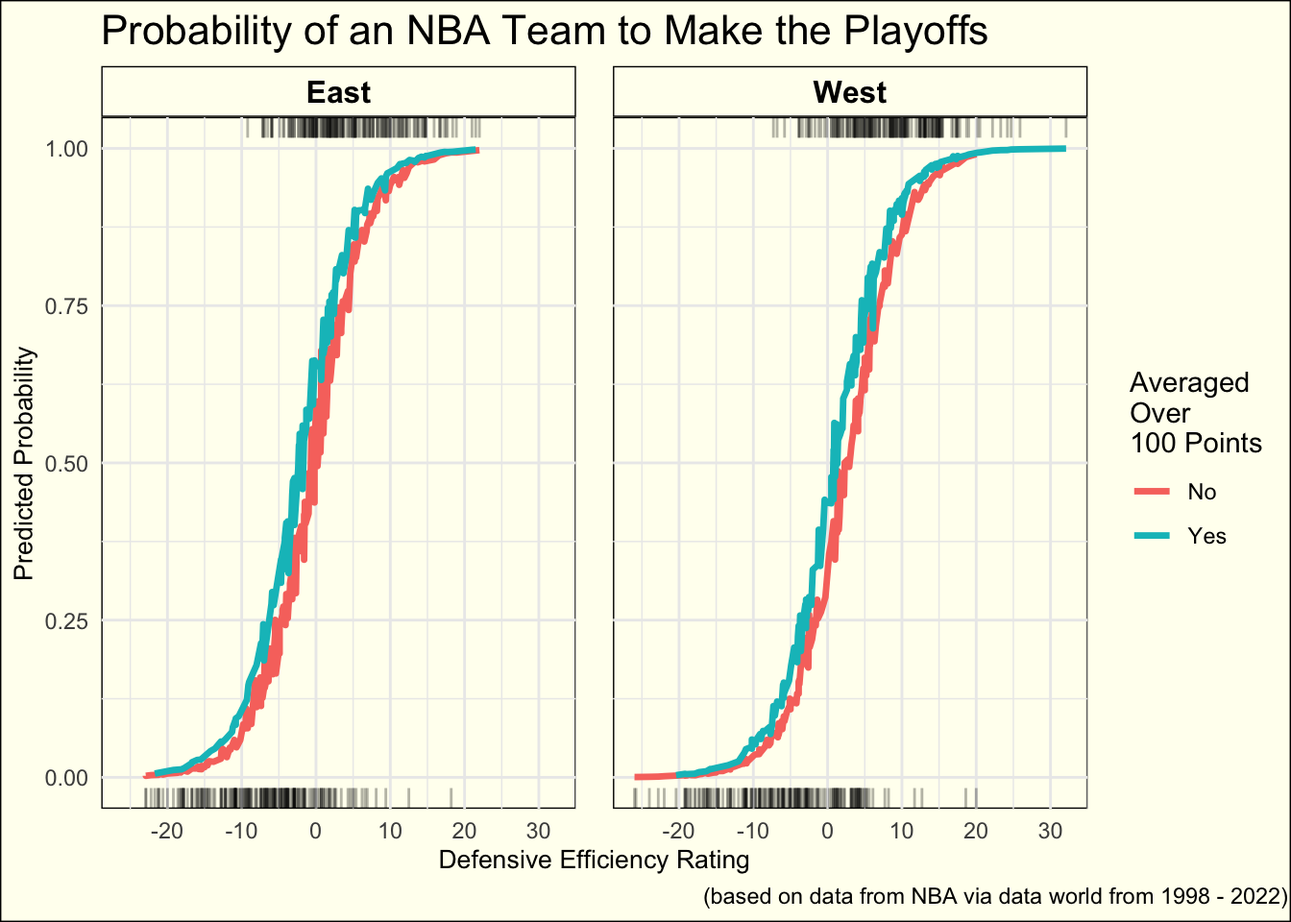
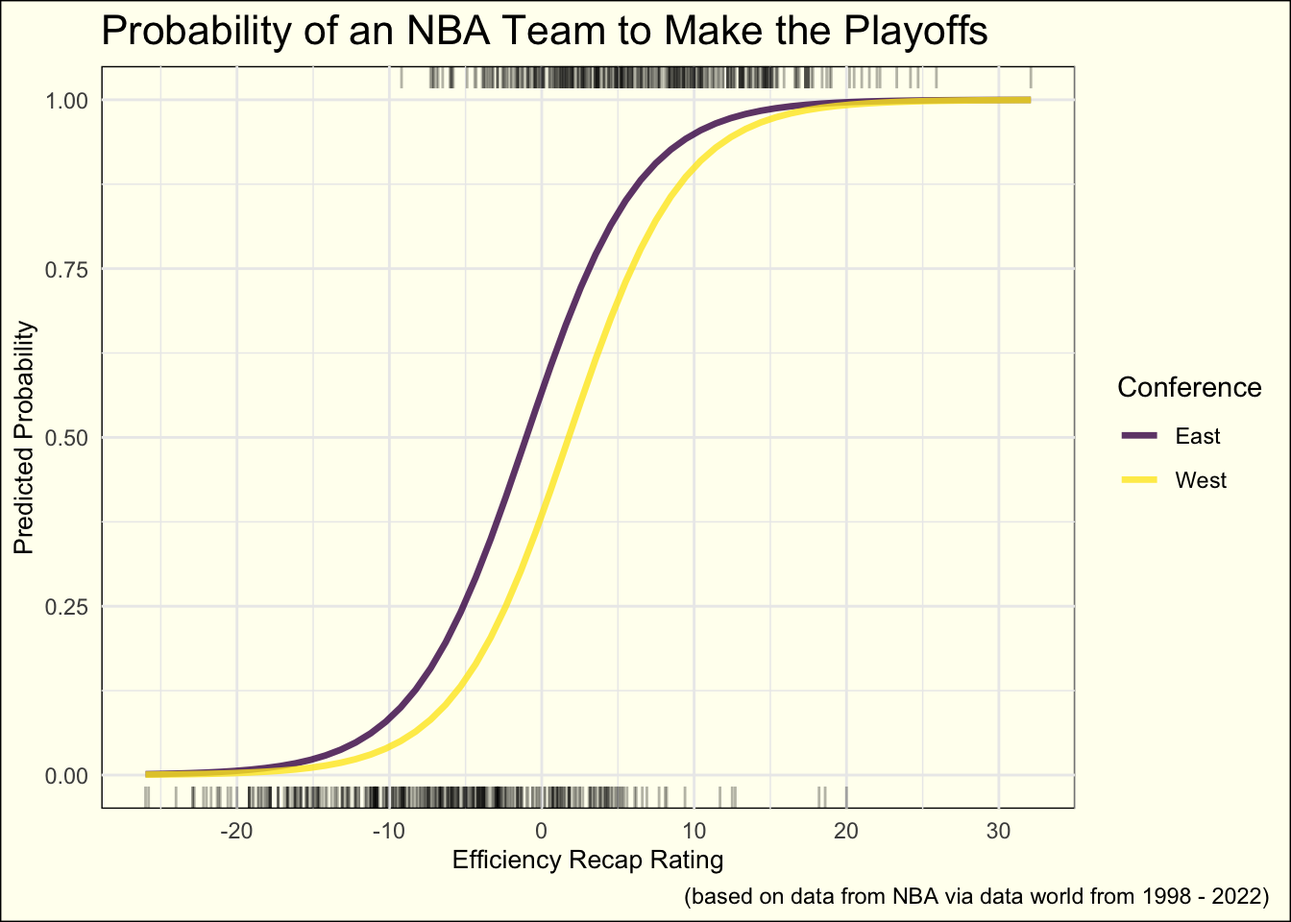
edits to visual and some writing

diff --git a/docs/posts/blog-post-3/blog-post-3.html b/docs/posts/blog-post-3/blog-post-3.html
@@ -841,16 +841,16 @@ pre > code.sourceCode > span > a:first-child::before { text-decoration: underlin
 </section>
 <section id="building-a-model" class="level1">
 <h1>Building a model</h1>
-<p>I decided to use some of the metrics in the data set to predict whether a team would make the playoffs or not. I made a response variables Playoffs by using a condition of if a team played more than 82 games or not in season. I also made another qualitative variable in over100 which shows whether a team averaged over 100 points or not for that season. This makes the visualization aspect more fun to do.</p>
+<p>I decided to use some of the metrics in the data set to predict whether a team would make the playoffs or not. I made a response variables Playoffs by using a condition of if a team played more than 82 games or not in season.</p>
 <p>In order to make sure that this model isn’t testing using data that knows the answer, we should get rid of both of the No and G variables. We also don’t care about what team it is so we should get rid of the team factor.</p>
 <div class="cell">
 <div class="sourceCode cell-code" id="cb9"><pre class="sourceCode r code-with-copy"><code class="sourceCode r"><span id="cb9-1"><a href="#cb9-1" aria-hidden="true" tabindex="-1"></a>team_stats_tidy <span class="ot">&lt;-</span></span>
 <span id="cb9-2"><a href="#cb9-2" aria-hidden="true" tabindex="-1"></a>  team_stats_tidy <span class="sc">|&gt;</span></span>
 <span id="cb9-3"><a href="#cb9-3" aria-hidden="true" tabindex="-1"></a>  <span class="fu">select</span>(<span class="sc">-</span>(<span class="fu">c</span>(<span class="st">"No"</span>,<span class="st">"G"</span>, <span class="st">"Team"</span>)))</span></code><button title="Copy to Clipboard" class="code-copy-button"><i class="bi"></i></button></pre></div>
 </div>
-<p>As this is a blog for data visualization, I am only going to choose four predictors that were all found to be relatively significant in a model using all the predictors. Two of these are qualitative to demonstrate more visualization. The predictors are Deff, Conference, FG_pct, and over100. Shown below is my model with their coefficients and p values.</p>
+<p>As this is a blog for data visualization, I am only going to choose three predictors that were all found to be relatively significant in a model using all the predictors. One of these is qualitative to demonstrate more visualization. The predictors are Deff, Conference, and FG_pct. Shown below is my model with their coefficients and p values.</p>
 <div class="cell">
-<div class="sourceCode cell-code" id="cb10"><pre class="sourceCode r code-with-copy"><code class="sourceCode r"><span id="cb10-1"><a href="#cb10-1" aria-hidden="true" tabindex="-1"></a>playoffs_mod <span class="ot">&lt;-</span> <span class="fu">glm</span>(Playoffs <span class="sc">~</span> Deff <span class="sc">+</span> Conference <span class="sc">+</span> FG_pct <span class="sc">+</span> over100,</span>
+<div class="sourceCode cell-code" id="cb10"><pre class="sourceCode r code-with-copy"><code class="sourceCode r"><span id="cb10-1"><a href="#cb10-1" aria-hidden="true" tabindex="-1"></a>playoffs_mod <span class="ot">&lt;-</span> <span class="fu">glm</span>(Playoffs <span class="sc">~</span> Deff <span class="sc">+</span> Conference <span class="sc">+</span> FG_pct,</span>
 <span id="cb10-2"><a href="#cb10-2" aria-hidden="true" tabindex="-1"></a>                    <span class="at">data =</span> team_stats_tidy,</span>
 <span id="cb10-3"><a href="#cb10-3" aria-hidden="true" tabindex="-1"></a>                    <span class="at">family =</span> <span class="st">'binomial'</span>)</span>
 <span id="cb10-4"><a href="#cb10-4" aria-hidden="true" tabindex="-1"></a><span class="fu">kable</span>(<span class="fu">tidy</span>(playoffs_mod))</span></code><button title="Copy to Clipboard" class="code-copy-button"><i class="bi"></i></button></pre></div>
@@ -868,38 +868,31 @@ pre > code.sourceCode > span > a:first-child::before { text-decoration: underlin
 <tbody>
 <tr class="odd">
 <td style="text-align: left;">(Intercept)</td>
-<td style="text-align: right;">5.1090840</td>
-<td style="text-align: right;">4.2254638</td>
-<td style="text-align: right;">1.209118</td>
-<td style="text-align: right;">0.2266175</td>
+<td style="text-align: right;">0.4539997</td>
+<td style="text-align: right;">3.7403799</td>
+<td style="text-align: right;">0.1213780</td>
+<td style="text-align: right;">0.9033917</td>
 </tr>
 <tr class="even">
 <td style="text-align: left;">Deff</td>
-<td style="text-align: right;">0.2737298</td>
-<td style="text-align: right;">0.0214107</td>
-<td style="text-align: right;">12.784727</td>
+<td style="text-align: right;">0.2665841</td>
+<td style="text-align: right;">0.0209194</td>
+<td style="text-align: right;">12.7433723</td>
 <td style="text-align: right;">0.0000000</td>
 </tr>
 <tr class="odd">
 <td style="text-align: left;">ConferenceWest</td>
-<td style="text-align: right;">-0.7893214</td>
-<td style="text-align: right;">0.2255191</td>
-<td style="text-align: right;">-3.500020</td>
-<td style="text-align: right;">0.0004652</td>
+<td style="text-align: right;">-0.7424358</td>
+<td style="text-align: right;">0.2228549</td>
+<td style="text-align: right;">-3.3314764</td>
+<td style="text-align: right;">0.0008639</td>
 </tr>
 <tr class="even">
 <td style="text-align: left;">FG_pct</td>
-<td style="text-align: right;">-0.1124503</td>
-<td style="text-align: right;">0.0948899</td>
-<td style="text-align: right;">-1.185061</td>
-<td style="text-align: right;">0.2359933</td>
-</tr>
-<tr class="odd">
-<td style="text-align: left;">over100Yes</td>
-<td style="text-align: right;">0.5922806</td>
-<td style="text-align: right;">0.2436075</td>
-<td style="text-align: right;">2.431291</td>
-<td style="text-align: right;">0.0150451</td>
+<td style="text-align: right;">-0.0040242</td>
+<td style="text-align: right;">0.0831379</td>
+<td style="text-align: right;">-0.0484033</td>
+<td style="text-align: right;">0.9613948</td>
 </tr>
 </tbody>
 </table>
@@ -909,33 +902,32 @@ pre > code.sourceCode > span > a:first-child::before { text-decoration: underlin
 <div class="sourceCode cell-code" id="cb11"><pre class="sourceCode r code-with-copy"><code class="sourceCode r"><span id="cb11-1"><a href="#cb11-1" aria-hidden="true" tabindex="-1"></a>grid <span class="ot">&lt;-</span></span>
 <span id="cb11-2"><a href="#cb11-2" aria-hidden="true" tabindex="-1"></a>  team_stats_tidy <span class="sc">|&gt;</span></span>
 <span id="cb11-3"><a href="#cb11-3" aria-hidden="true" tabindex="-1"></a>  <span class="fu">data_grid</span>(</span>
-<span id="cb11-4"><a href="#cb11-4" aria-hidden="true" tabindex="-1"></a>    <span class="at">Deff =</span> <span class="fu">seq_range</span>(Deff, <span class="at">n =</span> <span class="dv">100</span>),</span>
-<span id="cb11-5"><a href="#cb11-5" aria-hidden="true" tabindex="-1"></a>    <span class="at">FG_pct =</span> <span class="fu">seq_range</span>(FG_pct, <span class="at">n =</span> <span class="dv">100</span>),</span>
+<span id="cb11-4"><a href="#cb11-4" aria-hidden="true" tabindex="-1"></a>    <span class="at">Deff =</span> <span class="fu">seq_range</span>(Deff, <span class="at">n =</span> <span class="dv">60</span>),</span>
+<span id="cb11-5"><a href="#cb11-5" aria-hidden="true" tabindex="-1"></a>    <span class="at">FG_pct =</span> <span class="fu">median</span>(FG_pct),</span>
 <span id="cb11-6"><a href="#cb11-6" aria-hidden="true" tabindex="-1"></a>    <span class="at">Conference =</span> <span class="fu">c</span>(<span class="st">"West"</span>, <span class="st">"East"</span>),</span>
-<span id="cb11-7"><a href="#cb11-7" aria-hidden="true" tabindex="-1"></a>    <span class="at">over100 =</span> <span class="fu">c</span>(<span class="st">"Yes"</span>, <span class="st">"No"</span>)</span>
-<span id="cb11-8"><a href="#cb11-8" aria-hidden="true" tabindex="-1"></a>  )</span></code><button title="Copy to Clipboard" class="code-copy-button"><i class="bi"></i></button></pre></div>
+<span id="cb11-7"><a href="#cb11-7" aria-hidden="true" tabindex="-1"></a>  )</span></code><button title="Copy to Clipboard" class="code-copy-button"><i class="bi"></i></button></pre></div>
 </div>
 <div class="cell">
 <div class="sourceCode cell-code" id="cb12"><pre class="sourceCode r code-with-copy"><code class="sourceCode r"><span id="cb12-1"><a href="#cb12-1" aria-hidden="true" tabindex="-1"></a>aug_stats <span class="ot">&lt;-</span></span>
 <span id="cb12-2"><a href="#cb12-2" aria-hidden="true" tabindex="-1"></a>  <span class="fu">augment</span>(playoffs_mod,</span>
-<span id="cb12-3"><a href="#cb12-3" aria-hidden="true" tabindex="-1"></a>          <span class="at">se_fit =</span> <span class="cn">TRUE</span>)</span>
-<span id="cb12-4"><a href="#cb12-4" aria-hidden="true" tabindex="-1"></a>aug_stats</span></code><button title="Copy to Clipboard" class="code-copy-button"><i class="bi"></i></button></pre></div>
+<span id="cb12-3"><a href="#cb12-3" aria-hidden="true" tabindex="-1"></a>          <span class="at">newdata =</span> grid,</span>
+<span id="cb12-4"><a href="#cb12-4" aria-hidden="true" tabindex="-1"></a>          <span class="at">se_fit =</span> <span class="cn">TRUE</span>)</span>
+<span id="cb12-5"><a href="#cb12-5" aria-hidden="true" tabindex="-1"></a>aug_stats</span></code><button title="Copy to Clipboard" class="code-copy-button"><i class="bi"></i></button></pre></div>
 <div class="cell-output cell-output-stdout">
-<pre><code># A tibble: 725 × 12
-   Playoffs  Deff Conference FG_pct over100 .fitted .se.fit .resid    .hat
-      &lt;dbl&gt; &lt;dbl&gt; &lt;chr&gt;       &lt;dbl&gt; &lt;fct&gt;     &lt;dbl&gt;   &lt;dbl&gt;  &lt;dbl&gt;   &lt;dbl&gt;
- 1        1  17.5 East         44.9 No         4.85   0.416  0.125 0.00133
- 2        1  17.5 West         48.3 No         3.68   0.410  0.223 0.00405
- 3        1  13.6 West         46.6 No         2.80   0.304  0.343 0.00497
- 4        1  13.2 West         48   Yes        3.13   0.301  0.293 0.00365
- 5        1  13.1 West         46.8 No         2.64   0.302  0.371 0.00567
- 6        1  12.2 East         46.8 No         3.19   0.335  0.285 0.00428
- 7        1  10   East         44.9 No         2.80   0.277  0.344 0.00416
- 8        1   9.4 West         47.1 Yes        2.19   0.236  0.461 0.00505
- 9        1   7.3 East         45.4 No         2.00   0.235  0.503 0.00580
-10        1   7.2 East         44.6 No         2.06   0.236  0.489 0.00558
-# ℹ 715 more rows
-# ℹ 3 more variables: .sigma &lt;dbl&gt;, .cooksd &lt;dbl&gt;, .std.resid &lt;dbl&gt;</code></pre>
+<pre><code># A tibble: 120 × 5
+    Deff FG_pct Conference .fitted .se.fit
+   &lt;dbl&gt;  &lt;dbl&gt; &lt;chr&gt;        &lt;dbl&gt;   &lt;dbl&gt;
+ 1 -26     45.2 East         -6.66   0.548
+ 2 -26     45.2 West         -7.40   0.599
+ 3 -25.0   45.2 East         -6.40   0.529
+ 4 -25.0   45.2 West         -7.14   0.579
+ 5 -24.0   45.2 East         -6.13   0.509
+ 6 -24.0   45.2 West         -6.88   0.559
+ 7 -23.0   45.2 East         -5.87   0.489
+ 8 -23.0   45.2 West         -6.61   0.539
+ 9 -22.1   45.2 East         -5.61   0.470
+10 -22.1   45.2 West         -6.35   0.520
+# ℹ 110 more rows</code></pre>
 </div>
 </div>
 <p>Next I need to convert the .fitted values to predicted probabilities. Currently they are showing the predicted log odds.</p>
@@ -945,22 +937,20 @@ pre > code.sourceCode > span > a:first-child::before { text-decoration: underlin
 <span id="cb14-3"><a href="#cb14-3" aria-hidden="true" tabindex="-1"></a>  <span class="fu">mutate</span>(<span class="at">.predprob =</span> (<span class="fu">exp</span>(.fitted) <span class="sc">/</span> (<span class="dv">1</span> <span class="sc">+</span> <span class="fu">exp</span>(.fitted))))</span>
 <span id="cb14-4"><a href="#cb14-4" aria-hidden="true" tabindex="-1"></a>aug_stats</span></code><button title="Copy to Clipboard" class="code-copy-button"><i class="bi"></i></button></pre></div>
 <div class="cell-output cell-output-stdout">
-<pre><code># A tibble: 725 × 13
-   Playoffs  Deff Conference FG_pct over100 .fitted .se.fit .resid    .hat
-      &lt;dbl&gt; &lt;dbl&gt; &lt;chr&gt;       &lt;dbl&gt; &lt;fct&gt;     &lt;dbl&gt;   &lt;dbl&gt;  &lt;dbl&gt;   &lt;dbl&gt;
- 1        1  17.5 East         44.9 No         4.85   0.416  0.125 0.00133
- 2        1  17.5 West         48.3 No         3.68   0.410  0.223 0.00405
- 3        1  13.6 West         46.6 No         2.80   0.304  0.343 0.00497
- 4        1  13.2 West         48   Yes        3.13   0.301  0.293 0.00365
- 5        1  13.1 West         46.8 No         2.64   0.302  0.371 0.00567
- 6        1  12.2 East         46.8 No         3.19   0.335  0.285 0.00428
- 7        1  10   East         44.9 No         2.80   0.277  0.344 0.00416
- 8        1   9.4 West         47.1 Yes        2.19   0.236  0.461 0.00505
- 9        1   7.3 East         45.4 No         2.00   0.235  0.503 0.00580
-10        1   7.2 East         44.6 No         2.06   0.236  0.489 0.00558
-# ℹ 715 more rows
-# ℹ 4 more variables: .sigma &lt;dbl&gt;, .cooksd &lt;dbl&gt;, .std.resid &lt;dbl&gt;,
-#   .predprob &lt;dbl&gt;</code></pre>
+<pre><code># A tibble: 120 × 6
+    Deff FG_pct Conference .fitted .se.fit .predprob
+   &lt;dbl&gt;  &lt;dbl&gt; &lt;chr&gt;        &lt;dbl&gt;   &lt;dbl&gt;     &lt;dbl&gt;
+ 1 -26     45.2 East         -6.66   0.548  0.00128 
+ 2 -26     45.2 West         -7.40   0.599  0.000610
+ 3 -25.0   45.2 East         -6.40   0.529  0.00166 
+ 4 -25.0   45.2 West         -7.14   0.579  0.000793
+ 5 -24.0   45.2 East         -6.13   0.509  0.00216 
+ 6 -24.0   45.2 West         -6.88   0.559  0.00103 
+ 7 -23.0   45.2 East         -5.87   0.489  0.00281 
+ 8 -23.0   45.2 West         -6.61   0.539  0.00134 
+ 9 -22.1   45.2 East         -5.61   0.470  0.00365 
+10 -22.1   45.2 West         -6.35   0.520  0.00174 
+# ℹ 110 more rows</code></pre>
 </div>
 </div>
 <p>For my visualization I plan on using the geom_rug feature, so I need to make two separate data frames with teams that made the playoffs and teams that didn’t.</p>
@@ -981,37 +971,38 @@ pre > code.sourceCode > span > a:first-child::before { text-decoration: underlin
 <span id="cb17-2"><a href="#cb17-2" aria-hidden="true" tabindex="-1"></a>aug_stats<span class="sc">|&gt;</span></span>
 <span id="cb17-3"><a href="#cb17-3" aria-hidden="true" tabindex="-1"></a>  <span class="fu">ggplot</span>(<span class="fu">aes</span>(<span class="at">x =</span> Deff,</span>
 <span id="cb17-4"><a href="#cb17-4" aria-hidden="true" tabindex="-1"></a>             <span class="at">y =</span> .predprob)) <span class="sc">+</span></span>
-<span id="cb17-5"><a href="#cb17-5" aria-hidden="true" tabindex="-1"></a>  <span class="fu">geom_line</span>(<span class="fu">aes</span>(<span class="at">colour =</span> over100),</span>
-<span id="cb17-6"><a href="#cb17-6" aria-hidden="true" tabindex="-1"></a>            <span class="at">linewidth =</span> <span class="fl">1.2</span>) <span class="sc">+</span></span>
-<span id="cb17-7"><a href="#cb17-7" aria-hidden="true" tabindex="-1"></a>  <span class="fu">geom_rug</span>(<span class="at">data =</span> stats_playoffs,</span>
-<span id="cb17-8"><a href="#cb17-8" aria-hidden="true" tabindex="-1"></a>           <span class="at">sides =</span> <span class="st">'t'</span>,</span>
-<span id="cb17-9"><a href="#cb17-9" aria-hidden="true" tabindex="-1"></a>           <span class="at">alpha =</span> <span class="fl">0.3</span>,</span>
-<span id="cb17-10"><a href="#cb17-10" aria-hidden="true" tabindex="-1"></a>           <span class="fu">aes</span>(<span class="at">y =</span> Playoffs)) <span class="sc">+</span></span>
-<span id="cb17-11"><a href="#cb17-11" aria-hidden="true" tabindex="-1"></a>  <span class="fu">geom_rug</span>(<span class="at">data =</span> stats_nplayoffs,</span>
-<span id="cb17-12"><a href="#cb17-12" aria-hidden="true" tabindex="-1"></a>           <span class="at">sides =</span> <span class="st">'b'</span>,</span>
-<span id="cb17-13"><a href="#cb17-13" aria-hidden="true" tabindex="-1"></a>           <span class="at">alpha =</span> <span class="fl">0.3</span>,</span>
-<span id="cb17-14"><a href="#cb17-14" aria-hidden="true" tabindex="-1"></a>           <span class="fu">aes</span>(<span class="at">y =</span> Playoffs)) <span class="sc">+</span></span>
-<span id="cb17-15"><a href="#cb17-15" aria-hidden="true" tabindex="-1"></a>  <span class="fu">labs</span>(<span class="at">x =</span> <span class="st">"Defensive Efficiency Rating"</span>,</span>
-<span id="cb17-16"><a href="#cb17-16" aria-hidden="true" tabindex="-1"></a>       <span class="at">y =</span> <span class="st">"Predicted Probability"</span>,</span>
-<span id="cb17-17"><a href="#cb17-17" aria-hidden="true" tabindex="-1"></a>       <span class="at">colour =</span> <span class="st">"Averaged</span><span class="sc">\n</span><span class="st">Over</span><span class="sc">\n</span><span class="st">100 Points"</span>,</span>
-<span id="cb17-18"><a href="#cb17-18" aria-hidden="true" tabindex="-1"></a>       <span class="at">title =</span> <span class="st">"Probability of an NBA Team to Make the Playoffs"</span>,</span>
-<span id="cb17-19"><a href="#cb17-19" aria-hidden="true" tabindex="-1"></a>       <span class="at">caption =</span> <span class="st">"(based on data from NBA via data world from 1998 - 2022)"</span>) <span class="sc">+</span></span>
-<span id="cb17-20"><a href="#cb17-20" aria-hidden="true" tabindex="-1"></a>  <span class="fu">theme_minimal</span>() <span class="sc">+</span></span>
-<span id="cb17-21"><a href="#cb17-21" aria-hidden="true" tabindex="-1"></a>  <span class="fu">facet_wrap</span>(<span class="sc">~</span>Conference) <span class="sc">+</span></span>
-<span id="cb17-22"><a href="#cb17-22" aria-hidden="true" tabindex="-1"></a>    <span class="fu">theme</span>(<span class="at">axis.title =</span> <span class="fu">element_text</span>(<span class="at">size =</span> <span class="dv">10</span>,),</span>
-<span id="cb17-23"><a href="#cb17-23" aria-hidden="true" tabindex="-1"></a>        <span class="at">strip.text =</span> <span class="fu">element_text</span>(<span class="at">size =</span> <span class="dv">12</span>),</span>
-<span id="cb17-24"><a href="#cb17-24" aria-hidden="true" tabindex="-1"></a>        <span class="at">plot.title =</span> <span class="fu">element_text</span>(<span class="at">size =</span> <span class="dv">16</span>,</span>
-<span id="cb17-25"><a href="#cb17-25" aria-hidden="true" tabindex="-1"></a>                                  <span class="at">hjust =</span> <span class="dv">0</span>),</span>
-<span id="cb17-26"><a href="#cb17-26" aria-hidden="true" tabindex="-1"></a>        <span class="at">plot.subtitle =</span> <span class="fu">element_text</span>(<span class="at">size =</span> <span class="dv">6</span>),</span>
-<span id="cb17-27"><a href="#cb17-27" aria-hidden="true" tabindex="-1"></a>        <span class="at">panel.spacing =</span> <span class="fu">unit</span>(<span class="dv">1</span>, <span class="st">'lines'</span>),</span>
-<span id="cb17-28"><a href="#cb17-28" aria-hidden="true" tabindex="-1"></a>        <span class="at">strip.text.x =</span> <span class="fu">element_text</span>(<span class="at">color =</span> <span class="st">"black"</span>, </span>
-<span id="cb17-29"><a href="#cb17-29" aria-hidden="true" tabindex="-1"></a>                                    <span class="at">face =</span> <span class="st">"bold"</span>),</span>
-<span id="cb17-30"><a href="#cb17-30" aria-hidden="true" tabindex="-1"></a>        <span class="at">strip.background =</span> <span class="fu">element_rect</span>(<span class="at">colour =</span> <span class="st">"black"</span>,</span>
-<span id="cb17-31"><a href="#cb17-31" aria-hidden="true" tabindex="-1"></a>                                        <span class="at">fill =</span> <span class="st">"ivory"</span>),</span>
-<span id="cb17-32"><a href="#cb17-32" aria-hidden="true" tabindex="-1"></a>        <span class="at">panel.background =</span> <span class="fu">element_rect</span>(<span class="at">fill =</span> <span class="st">"ivory"</span>),</span>
-<span id="cb17-33"><a href="#cb17-33" aria-hidden="true" tabindex="-1"></a>        <span class="at">plot.background =</span> <span class="fu">element_rect</span>(<span class="at">fill =</span> <span class="st">"ivory"</span>),</span>
-<span id="cb17-34"><a href="#cb17-34" aria-hidden="true" tabindex="-1"></a>        <span class="at">plot.caption =</span> <span class="fu">element_text</span>(<span class="at">hjust =</span> <span class="fl">1.5</span>)) <span class="sc">+</span></span>
-<span id="cb17-35"><a href="#cb17-35" aria-hidden="true" tabindex="-1"></a>  <span class="fu">scale_x_continuous</span>(<span class="at">breaks=</span><span class="fu">seq</span>(<span class="sc">-</span><span class="dv">30</span>, <span class="dv">40</span>, <span class="dv">10</span>))</span></code><button title="Copy to Clipboard" class="code-copy-button"><i class="bi"></i></button></pre></div>
+<span id="cb17-5"><a href="#cb17-5" aria-hidden="true" tabindex="-1"></a>  <span class="fu">geom_line</span>(<span class="fu">aes</span>(<span class="at">colour =</span> Conference),</span>
+<span id="cb17-6"><a href="#cb17-6" aria-hidden="true" tabindex="-1"></a>            <span class="at">linewidth =</span> <span class="fl">1.2</span>,</span>
+<span id="cb17-7"><a href="#cb17-7" aria-hidden="true" tabindex="-1"></a>            <span class="at">alpha =</span> <span class="fl">0.8</span>) <span class="sc">+</span></span>
+<span id="cb17-8"><a href="#cb17-8" aria-hidden="true" tabindex="-1"></a>  <span class="fu">scale_colour_viridis_d</span>() <span class="sc">+</span></span>
+<span id="cb17-9"><a href="#cb17-9" aria-hidden="true" tabindex="-1"></a>  <span class="fu">geom_rug</span>(<span class="at">data =</span> stats_playoffs,</span>
+<span id="cb17-10"><a href="#cb17-10" aria-hidden="true" tabindex="-1"></a>           <span class="at">sides =</span> <span class="st">'t'</span>,</span>
+<span id="cb17-11"><a href="#cb17-11" aria-hidden="true" tabindex="-1"></a>           <span class="at">alpha =</span> <span class="fl">0.3</span>,</span>
+<span id="cb17-12"><a href="#cb17-12" aria-hidden="true" tabindex="-1"></a>           <span class="fu">aes</span>(<span class="at">y =</span> Playoffs)) <span class="sc">+</span></span>
+<span id="cb17-13"><a href="#cb17-13" aria-hidden="true" tabindex="-1"></a>  <span class="fu">geom_rug</span>(<span class="at">data =</span> stats_nplayoffs,</span>
+<span id="cb17-14"><a href="#cb17-14" aria-hidden="true" tabindex="-1"></a>           <span class="at">sides =</span> <span class="st">'b'</span>,</span>
+<span id="cb17-15"><a href="#cb17-15" aria-hidden="true" tabindex="-1"></a>           <span class="at">alpha =</span> <span class="fl">0.3</span>,</span>
+<span id="cb17-16"><a href="#cb17-16" aria-hidden="true" tabindex="-1"></a>           <span class="fu">aes</span>(<span class="at">y =</span> Playoffs)) <span class="sc">+</span></span>
+<span id="cb17-17"><a href="#cb17-17" aria-hidden="true" tabindex="-1"></a>  <span class="fu">labs</span>(<span class="at">x =</span> <span class="st">"Efficiency Recap Rating"</span>,</span>
+<span id="cb17-18"><a href="#cb17-18" aria-hidden="true" tabindex="-1"></a>       <span class="at">y =</span> <span class="st">"Predicted Probability"</span>,</span>
+<span id="cb17-19"><a href="#cb17-19" aria-hidden="true" tabindex="-1"></a>       <span class="at">colour =</span> <span class="st">"Conference"</span>,</span>
+<span id="cb17-20"><a href="#cb17-20" aria-hidden="true" tabindex="-1"></a>       <span class="at">title =</span> <span class="st">"Probability of an NBA Team to Make the Playoffs"</span>,</span>
+<span id="cb17-21"><a href="#cb17-21" aria-hidden="true" tabindex="-1"></a>       <span class="at">caption =</span> <span class="st">"(based on data from NBA via data world from 1998 - 2022)"</span>) <span class="sc">+</span></span>
+<span id="cb17-22"><a href="#cb17-22" aria-hidden="true" tabindex="-1"></a>  <span class="fu">theme_minimal</span>() <span class="sc">+</span></span>
+<span id="cb17-23"><a href="#cb17-23" aria-hidden="true" tabindex="-1"></a>    <span class="fu">theme</span>(<span class="at">axis.title =</span> <span class="fu">element_text</span>(<span class="at">size =</span> <span class="dv">10</span>,),</span>
+<span id="cb17-24"><a href="#cb17-24" aria-hidden="true" tabindex="-1"></a>        <span class="at">strip.text =</span> <span class="fu">element_text</span>(<span class="at">size =</span> <span class="dv">12</span>),</span>
+<span id="cb17-25"><a href="#cb17-25" aria-hidden="true" tabindex="-1"></a>        <span class="at">plot.title =</span> <span class="fu">element_text</span>(<span class="at">size =</span> <span class="dv">16</span>,</span>
+<span id="cb17-26"><a href="#cb17-26" aria-hidden="true" tabindex="-1"></a>                                  <span class="at">hjust =</span> <span class="dv">0</span>),</span>
+<span id="cb17-27"><a href="#cb17-27" aria-hidden="true" tabindex="-1"></a>        <span class="at">plot.subtitle =</span> <span class="fu">element_text</span>(<span class="at">size =</span> <span class="dv">6</span>),</span>
+<span id="cb17-28"><a href="#cb17-28" aria-hidden="true" tabindex="-1"></a>        <span class="at">panel.spacing =</span> <span class="fu">unit</span>(<span class="dv">1</span>, <span class="st">'lines'</span>),</span>
+<span id="cb17-29"><a href="#cb17-29" aria-hidden="true" tabindex="-1"></a>        <span class="at">strip.text.x =</span> <span class="fu">element_text</span>(<span class="at">color =</span> <span class="st">"black"</span>, </span>
+<span id="cb17-30"><a href="#cb17-30" aria-hidden="true" tabindex="-1"></a>                                    <span class="at">face =</span> <span class="st">"bold"</span>),</span>
+<span id="cb17-31"><a href="#cb17-31" aria-hidden="true" tabindex="-1"></a>        <span class="at">strip.background =</span> <span class="fu">element_rect</span>(<span class="at">colour =</span> <span class="st">"black"</span>,</span>
+<span id="cb17-32"><a href="#cb17-32" aria-hidden="true" tabindex="-1"></a>                                        <span class="at">fill =</span> <span class="st">"ivory"</span>),</span>
+<span id="cb17-33"><a href="#cb17-33" aria-hidden="true" tabindex="-1"></a>        <span class="at">panel.background =</span> <span class="fu">element_rect</span>(<span class="at">fill =</span> <span class="st">"ivory"</span>),</span>
+<span id="cb17-34"><a href="#cb17-34" aria-hidden="true" tabindex="-1"></a>        <span class="at">plot.background =</span> <span class="fu">element_rect</span>(<span class="at">fill =</span> <span class="st">"ivory"</span>),</span>
+<span id="cb17-35"><a href="#cb17-35" aria-hidden="true" tabindex="-1"></a>        <span class="at">plot.caption =</span> <span class="fu">element_text</span>(<span class="at">hjust =</span> <span class="fl">1.5</span>)) <span class="sc">+</span></span>
+<span id="cb17-36"><a href="#cb17-36" aria-hidden="true" tabindex="-1"></a>  <span class="fu">scale_x_continuous</span>(<span class="at">breaks=</span><span class="fu">seq</span>(<span class="sc">-</span><span class="dv">30</span>, <span class="dv">40</span>, <span class="dv">10</span>))</span></code><button title="Copy to Clipboard" class="code-copy-button"><i class="bi"></i></button></pre></div>
 <div class="cell-output-display">
 <p><img src="blog-post-3_files/figure-html/unnamed-chunk-15-1.png" class="img-fluid" width="672"></p>
 </div>
@@ -1019,7 +1010,7 @@ pre > code.sourceCode > span > a:first-child::before { text-decoration: underlin
 </section>
 <section id="conclusion" class="level1">
 <h1>Conclusion</h1>
-<p>This plot shows the differences in the probability of a team to make the playoffs dependent on their efficiency difference, their field goal percentage, their conference, and if they averaged over 100 points or not. What we can see here is that for a team in the Eastern conference, they need a lower efficiency difference to have an over .5 probability of making the playoffs. As well, a team’s probability of making the playoffs is higher if they averaged over 100 points.</p>
+<p>This plot shows the differences in the probability of a team to make the playoffs dependent on their efficiency recap rating, their median field goal percentage, and their conference. What we can see here is that for a team in the Eastern Conference, they need a lower efficiency recap rating to have an over .5 probability of making the playoffs. This can imply that typically over all the seasons this data has been collected, it is easier to make the playoffs in the Eastern Conference.</p>
 </section>
 <section id="connections-to-class" class="level1">
 <h1>Connections to Class</h1>

diff --git a/docs/index.html b/docs/index.html
@@ -170,7 +170,7 @@ ul.task-list li input[type="checkbox"] {
 
 <div class="quarto-listing quarto-listing-container-default" id="listing-listing">
 <div class="list quarto-listing-default">
-<div class="quarto-post image-right" data-index="0" data-categories="sports,code,analysis,data wrangling" data-listing-date-sort="1709701200000" data-listing-file-modified-sort="1709736290048" data-listing-date-modified-sort="NaN" data-listing-reading-time-sort="18">
+<div class="quarto-post image-right" data-index="0" data-categories="sports,code,analysis,data wrangling" data-listing-date-sort="1709701200000" data-listing-file-modified-sort="1709738107321" data-listing-date-modified-sort="NaN" data-listing-reading-time-sort="18">
 <div class="thumbnail">
 <p><a href="./posts/blog-post-3/blog-post-3.html"> <p class="card-img-top"><img src="posts/blog-post-3/blog-post-3_files/figure-html/unnamed-chunk-15-1.png"  class="thumbnail-image card-img"/></p> </a></p>
 </div>
